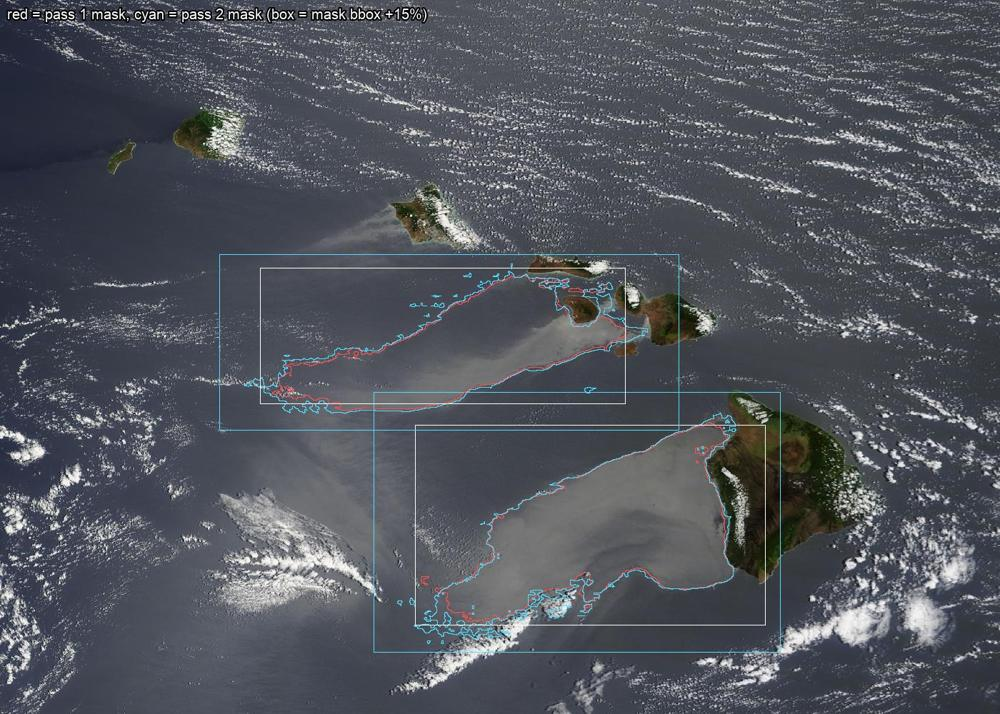
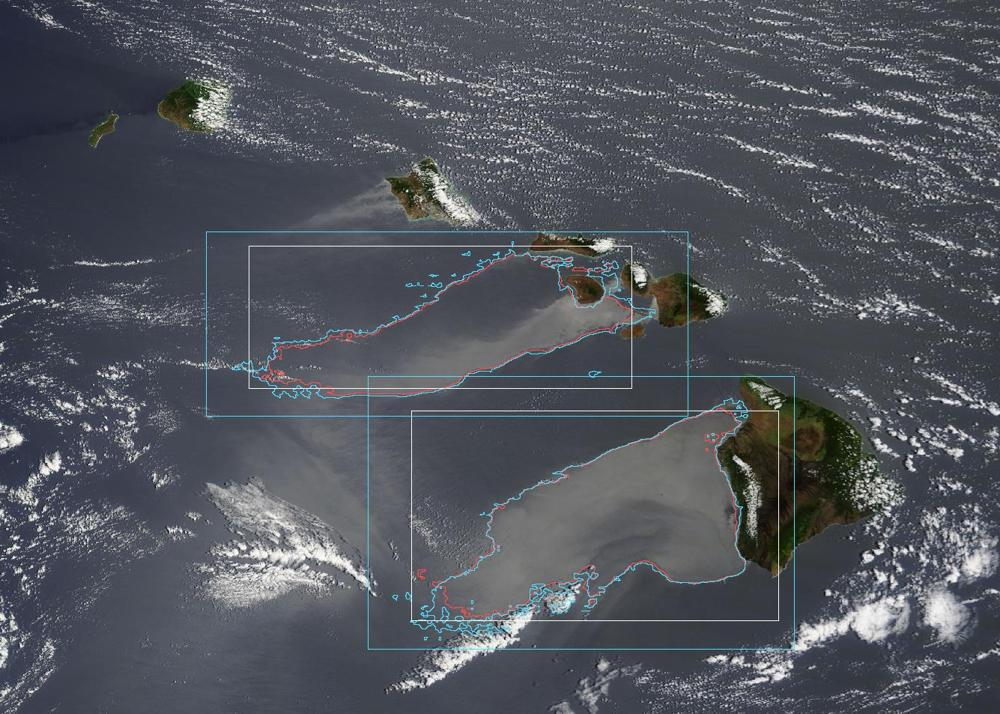
Demo UX: no empty panels; replay-first viewer when live has no plume
- Live with no visible plume -> compact status line + 'Open live run';
  viewer opens on the Kilauea replay. Live with a plume -> viewer opens on live
- Steps without data show the run's true-color image dimmed with the message
  and a 'See SAM in action -> Kilauea replay' button (never a black panel)
- Spark/SAM views zoomed to the plume area so masks read on phones
- Image URLs versioned by run id (live file names repeat hourly)

diff --git a/site/app.js b/site/app.js
@@ -14,6 +14,11 @@ const T = {
     v: { wildfire_smoke: "Likely wildfire smoke", vog_kilauea: "Likely vog from Kīlauea", vog_mauna_loa: "Likely vog from Mauna Loa",
          dust: "Likely dust", cloud: "Cloud", uncertain: "Haze seen, source not confirmed", no_plume: "No haze plume detected" },
     tooCloudy: "Too cloudy to see haze clearly",
+    liveLabel: "Live", openLive: "Open live run", checkedAgo: (n) => n < 90 ? `last checked ${n} min ago` : `last checked ${Math.round(n / 60)} h ago`,
+    clouds: { clear: "clear skies", partly: "partly cloudy", mostly: "mostly cloudy", overcast: "overcast" },
+    seeSam: "See SAM in action → Kīlauea replay", seeAlerts: "See alerts in 5 languages → Kīlauea replay",
+    noSparkPlume: "Muse Spark found no haze plume in this image, so there is nothing to box.",
+    noSamLive: "No plume in this image, so SAM had nothing to segment.",
     confidence: "Confidence",
     scanned: "Satellite image",
     updated: "Checked",
@@ -67,6 +72,11 @@ const T = {
     v: { wildfire_smoke: "Có thể là khói cháy rừng", vog_kilauea: "Có thể là sương mù núi lửa (vog) từ Kīlauea", vog_mauna_loa: "Có thể là sương mù núi lửa (vog) từ Mauna Loa",
          dust: "Có thể là bụi", cloud: "Mây", uncertain: "Có mù, chưa xác định được nguồn", no_plume: "Không phát hiện vệt mù" },
     tooCloudy: "Nhiều mây, khó nhìn thấy mù",
+    liveLabel: "Trực tiếp", openLive: "Mở lượt quét trực tiếp", checkedAgo: (n) => n < 90 ? `kiểm tra ${n} phút trước` : `kiểm tra ${Math.round(n / 60)} giờ trước`,
+    clouds: { clear: "trời quang", partly: "mây rải rác", mostly: "nhiều mây", overcast: "u ám" },
+    seeSam: "Xem SAM hoạt động → bản xem lại Kīlauea", seeAlerts: "Xem cảnh báo 5 ngôn ngữ → bản xem lại Kīlauea",
+    noSparkPlume: "Muse Spark không thấy vệt mù nào trong ảnh này, nên không có gì để đóng khung.",
+    noSamLive: "Ảnh này không có vệt mù, nên SAM không có gì để tách.",
     confidence: "Độ tin cậy",
     scanned: "Ảnh vệ tinh",
     updated: "Kiểm tra lúc",
@@ -141,6 +151,15 @@ function fmtTime(iso) {
                                  hour: "2-digit", minute: "2-digit" }) + " HST";
 }
 function verdictKey(run) { return run.detection === "no_plume" ? "no_plume" : (run.verdict && run.verdict.class) || "uncertain"; }
+function hasVisiblePlume(run) {
+  return !!run && ((run.steps.spark.plumes || []).length > 0 || (run.steps.sam.two_pass || []).length > 0 ||
+                   ((run.verdict && run.verdict.confirmed) || []).length > 0);
+}
+function demoPath() {
+  const r = state.index.replays.find((x) => x.slug === "kilauea_20261017") || state.index.replays[0];
+  return r ? r.path : null;
+}
+function minutesAgo(iso) { return Math.max(0, Math.round((Date.now() - new Date(iso).getTime()) / 60000)); }
 
 async function getJSON(path) {
   const r = await fetch(path, { cache: "no-cache" });
@@ -151,7 +170,9 @@ async function loadRun(path) {
   if (!state.runs[path]) state.runs[path] = await getJSON(`data/${path}/run.json`);
   return state.runs[path];
 }
-const img = (path, file, alt, eager = true) => el("img", { src: `data/${path}/${file}`, alt, loading: eager ? "eager" : "lazy", decoding: "async", width: 1000, height: 714 });
+/* Image names repeat between runs (live/image.jpg every hour), so version URLs by run id. */
+const ver = (path) => (state.runs[path] && state.runs[path].run_id ? `?v=${encodeURIComponent(state.runs[path].run_id)}` : "");
+const img = (path, file, alt, eager = true) => el("img", { src: `data/${path}/${file}${ver(path)}`, alt, loading: eager ? "eager" : "lazy", decoding: "async", width: 1000, height: 714 });
 
 /* ---------------- static text ---------------- */
 function applyStatic() {
@@ -169,10 +190,21 @@ async function renderLive() {
   if (!idx || !idx.live) { box.append(el("p", { class: "status-note", text: t().noLive })); return; }
   const run = await loadRun("live");
   const v = verdictKey(run);
+  const note = t().status[idx.live_status] || "";
+  if (!hasVisiblePlume(run)) {
+    // Compact status: nothing to show step by step, so the viewer opens on a replay.
+    const cloud = t().clouds[run.steps.spark.cloud_cover];
+    const parts = [t().liveLabel, fmtTime(run.image_time), t().v.no_plume, cloud, t().checkedAgo(minutesAgo(idx.generated_at))].filter(Boolean);
+    box.append(el("article", { class: "live__status" },
+      el("span", { class: "live__dot", "aria-hidden": "true" }),
+      el("p", { class: "live__line", text: parts.join(" · ") }),
+      el("button", { type: "button", class: "btn", onclick: () => select("live", 0, true), text: t().openLive }),
+      note && el("p", { class: "small live__note", text: note })));
+    return;
+  }
   const cloudy = v === "no_plume" && ["mostly", "overcast"].includes(run.steps.spark.cloud_cover);
   const line = cloudy ? `${t().v.no_plume}. ${t().tooCloudy}.` : t().v[v];
   const conf = run.verdict && run.verdict.confidence >= 0.7 && v !== "no_plume" ? `${t().confidence}: ${pct(run.verdict.confidence)}` : null;
-  const note = t().status[idx.live_status] || "";
   box.append(el("article", { class: "live__card" },
     el("div", { class: "live__img" }, img("live", v === "no_plume" ? run.steps.image.src : run.steps.classify.overlay,
                                           `${t().scanned}: ${fmtTime(run.image_time)}`)),
@@ -232,8 +264,20 @@ async function renderViewer() {
 }
 
 function frame(path, file, caption) {
-  const f = $("#frame");
-  f.replaceChildren(file ? img(path, file, caption) : el("div", { class: "empty", text: caption }), file ? el("figcaption", { text: caption }) : "");
+  if (!file) return emptyFrame(state.runs[path], caption, null);
+  $("#frame").replaceChildren(img(path, file, caption), el("figcaption", { text: caption }));
+}
+/* Never an empty black panel: the run's own true-color image, dimmed, with the message on top,
+   and (optionally) a way to see the step working on the Kīlauea replay. */
+function emptyFrame(run, message, cta) {
+  const demo = demoPath();
+  const showCta = cta && demo && state.current !== demo;
+  $("#frame").replaceChildren(el("div", { class: "dim" },
+    run ? img(state.current, run.steps.image.src, "") : "",
+    el("div", { class: "dim__msg" },
+      el("p", { text: message }),
+      showCta && el("button", { type: "button", class: "btn btn--light",
+        onclick: () => select(demo, cta.step, true), text: cta.label }))));
 }
 function explain(...nodes) { $("#explain").replaceChildren(...nodes); }
 const dl = (pairs) => el("dl", {}, pairs.filter(Boolean).flatMap(([k, v]) => [el("dt", { text: k }), el("dd", {}, v)]));
@@ -246,14 +290,16 @@ function step1(run) {
 }
 function step2(run) {
   const s = run.steps.adp;
-  frame(state.current, s.src || run.steps.image.src, s.src ? "NOAA ADP (Kahu Ola)" : t().noAdp);
+  if (s.src) frame(state.current, s.src, "NOAA ADP (Kahu Ola)");
+  else emptyFrame(run, t().noAdp, null);
   explain(el("h3", { text: t().steps[1] }), el("p", { text: t().s2 }),
     dl([["State", s.state || "—"], ["Regions", String(s.candidates)], s.reason && ["Note", s.reason],
         s.meaning_of_absence && ["Absence", s.meaning_of_absence]]));
 }
 function step3(run) {
   const s = run.steps.spark;
-  frame(state.current, s.src, "Muse Spark");
+  if (s.plumes.length) frame(state.current, s.src, "Muse Spark");
+  else emptyFrame(run, t().noSparkPlume, { step: 2, label: t().seeSam });
   explain(el("h3", { text: t().steps[2] }), el("p", { text: t().s3 }),
     dl([[t().scene, s.scene], [t().cloud, s.cloud_cover]]),
     el("h3", { text: t().plumes }),
@@ -262,7 +308,8 @@ function step3(run) {
 }
 function step4(run) {
   const s = run.steps.sam;
-  frame(state.current, s.src, s.src ? "SAM 3.1: red = pass 1, cyan = pass 2" : t().noSam);
+  if (s.src) frame(state.current, s.src, "SAM 3.1: red = pass 1, cyan = pass 2");
+  else emptyFrame(run, t().noSamLive, { step: 3, label: t().seeSam });
   explain(el("h3", { text: t().steps[3] }), el("p", { text: t().s4 }),
     s.prompt_used ? dl([[t().promptUsed, s.prompt_used]]) : "",
     s.two_pass.length ? el("table", { class: "table" },
@@ -311,14 +358,14 @@ function step5(run) {
 function step6(run) {
   const a = run.steps.alerts;
   if (!a.available) {
-    frame(state.current, run.steps.classify.overlay, t().noAlert);
+    emptyFrame(run, t().noAlert, { step: 5, label: t().seeAlerts });
     explain(el("h3", { text: t().steps[5] }), el("p", { text: t().s6 }), el("p", { class: "status-note", text: t().noAlert }));
     return;
   }
   const lang = a.items.some((x) => x.lang === state.alertLang) ? state.alertLang : (state.lang === "vi" ? "vi" : "en");
   const it = a.items.find((x) => x.lang === lang);
   const f = $("#frame");
-  f.replaceChildren(it.card ? el("img", { src: `data/${state.current}/${it.card}`, alt: `${it.headline}. ${it.summary}`, width: 900, height: 506 }) : "", el("figcaption", { text: it.language }));
+  f.replaceChildren(it.card ? el("img", { src: `data/${state.current}/${it.card}${ver(state.current)}`, alt: `${it.headline}. ${it.summary}`, width: 900, height: 506 }) : "", el("figcaption", { text: it.language }));
   explain(
     el("h3", { text: t().steps[5] }), el("p", { text: t().s6 }),
     el("div", { class: "tabs", role: "tablist", "aria-label": t().languages }, a.items.map((x) => el("button", {
@@ -368,7 +415,9 @@ document.querySelectorAll(".lang button").forEach((b) => b.addEventListener("cli
 function routeFromHash() {
   const m = location.hash.match(/run=([\w/]+)(?:&step=(\d))?/);
   const known = [...(state.index.live ? ["live"] : []), ...state.index.replays.map((r) => r.path)];
-  return { path: m && known.includes(m[1]) ? m[1] : known[0],
+  const live = state.runs.live;
+  const fallback = live && hasVisiblePlume(live) ? "live" : (demoPath() || known[0]);
+  return { path: m && known.includes(m[1]) ? m[1] : fallback,
            step: m && m[2] ? Math.min(5, Math.max(0, Number(m[2]) - 1)) : 0 };
 }
 window.addEventListener("hashchange", () => {
@@ -385,6 +434,7 @@ window.addEventListener("hashchange", () => {
     $("#live").replaceChildren(el("p", { class: "status-note", text: `Could not load data/index.json (${e.message}).` }));
     return;
   }
+  if (state.index.live) { try { await loadRun("live"); } catch (_) {} }
   const r = routeFromHash();
   state.current = r.path;
   state.step = r.step;

diff --git a/site/styles.css b/site/styles.css
@@ -111,7 +111,27 @@ section { padding-top: 2.2rem; }
 .frame img { width: 100%; height: auto; }
 .replay img, .card-img { height: auto; }
 .frame figcaption { color: #E9EDF0; font-size: 0.85rem; padding: 8px 12px; }
-.frame .empty { aspect-ratio: 1.4; display: grid; place-items: center; color: #CFD6DB; padding: 24px; text-align: center; }
+.dim { position: relative; aspect-ratio: 1.4; background: var(--basalt); }
+.dim img { width: 100%; height: 100%; object-fit: cover; filter: brightness(0.38) saturate(0.6); }
+.dim__msg {
+  position: absolute; inset: 0; display: grid; place-content: center; justify-items: center;
+  gap: 12px; padding: 20px; text-align: center; color: #fff;
+}
+.dim__msg p { margin: 0; max-width: 34ch; font-size: 1.05rem; line-height: 1.4; }
+.btn {
+  font: inherit; font-size: 0.95rem; font-weight: 600; cursor: pointer; min-height: 44px;
+  padding: 8px 16px; border-radius: 999px; border: 2px solid var(--pacific);
+  background: var(--pacific); color: #fff;
+}
+.btn--light { background: #fff; color: var(--pacific); border-color: #fff; }
+.live__status {
+  display: grid; grid-template-columns: auto 1fr; gap: 6px 10px; align-items: center;
+  background: var(--paper); border-radius: var(--radius-lg); padding: 14px 16px;
+}
+.live__dot { width: 10px; height: 10px; border-radius: 50%; background: var(--lichen); box-shadow: 0 0 0 4px #D7E6DA; }
+.live__line { margin: 0; font-weight: 600; }
+.live__status .btn { grid-column: 1 / -1; justify-self: start; }
+.live__note { grid-column: 1 / -1; margin: 0; }
 .explain h3 { margin-top: 0; }
 .explain p { max-width: 62ch; }
 .explain dl { display: grid; grid-template-columns: max-content 1fr; gap: 4px 12px; margin: 0 0 1rem; }
@@ -146,6 +166,8 @@ section { padding-top: 2.2rem; }
 
 @media (min-width: 900px) {
   .live__card { display: grid; grid-template-columns: 3fr 2fr; }
+  .live__status { grid-template-columns: auto 1fr auto; }
+  .live__status .btn { grid-column: auto; }
   .live__img img { height: 100%; min-height: 100%; }
   .live__text { padding: 24px; align-self: center; }
   .replays__list { grid-template-columns: repeat(3, 1fr); }

diff --git a/src/sitedata.py b/src/sitedata.py
@@ -54,6 +54,25 @@ def _spark_boxes(image: Image.Image, loc: dict) -> Image.Image:
     return im
 
 
+def _zoom(im: Image.Image, boxes: list[list[float]], margin: float = 0.35,
+          aspect: float = 1.4, min_w: int = 420) -> Image.Image:
+    """Crop to the union of boxes (+margin), at the frame's aspect ratio, so small
+    plumes are legible on a phone. Returns the image unchanged if there are no boxes."""
+    if not boxes:
+        return im
+    x1 = min(b[0] for b in boxes); y1 = min(b[1] for b in boxes)
+    x2 = max(b[2] for b in boxes); y2 = max(b[3] for b in boxes)
+    w, h = (x2 - x1) * (1 + 2 * margin), (y2 - y1) * (1 + 2 * margin)
+    w = max(w, h * aspect, min_w)
+    h = w / aspect
+    if w >= im.width or h >= im.height:
+        return im
+    cx, cy = (x1 + x2) / 2, (y1 + y2) / 2
+    left = min(max(0, cx - w / 2), im.width - w)
+    top = min(max(0, cy - h / 2), im.height - h)
+    return im.crop((round(left), round(top), round(left + w), round(top + h)))
+
+
 def _adp_overlay(image: Image.Image, mask_path: Path) -> Image.Image:
     base = image.convert("RGBA")
     mask = Image.open(mask_path).convert("L")
@@ -89,7 +108,8 @@ def build(run_dir: Path, out_dir: Path, mode: str | None = None) -> dict:
         "src": _jpg(_adp_overlay(image, adp_mask), out_dir / "adp.jpg") if adp_mask.exists() else None,
     }
     steps["spark"] = {
-        "src": _jpg(_spark_boxes(image, loc), out_dir / "spark_boxes.jpg"),
+        "src": _jpg(_zoom(_spark_boxes(image, loc), [p["box"] for p in loc.get("pixels", [])]),
+                    out_dir / "spark_boxes.jpg"),
         "scene": loc["result"]["scene_description"], "cloud_cover": loc["result"]["cloud_cover"],
         "plumes": [{"label": p["label"], "visual_description": p["visual_description"],
                     "visibility": p["visibility"]} for p in loc["result"]["plumes"]],
@@ -97,7 +117,9 @@ def build(run_dir: Path, out_dir: Path, mode: str | None = None) -> dict:
     }
     tp = run_dir / "03_sam_two_pass.jpg"
     steps["sam"] = {
-        "src": _jpg(tp, out_dir / "sam_two_pass.jpg") if tp.exists() else None,
+        "src": _jpg(_zoom(Image.open(tp), [b for r in sam.get("two_pass", [])
+                                           for b in (r["spark_box"], r["pass2_box"])]),
+                    out_dir / "sam_two_pass.jpg") if tp.exists() else None,
         "prompt_used": sam.get("chosen_for_classification"),
         "variants": {k: {"objects": len(v.get("objects", [])), "score": v.get("score")}
                      for k, v in sam["variants"].items()},
